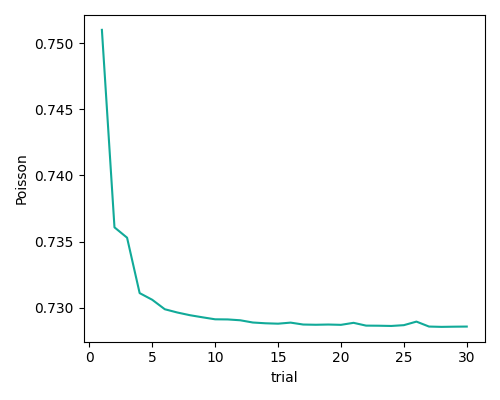
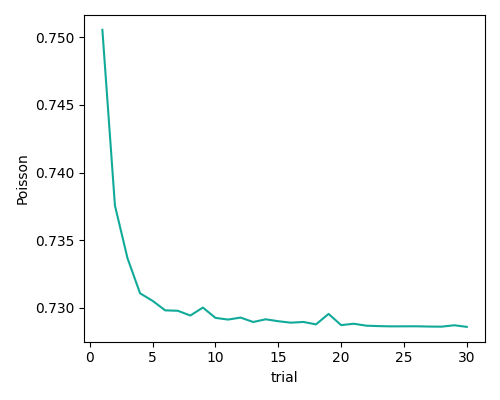
MSEのファイルの書き足した不要部分を消去

diff --git a/detectMSE.py b/detectMSE.py
@@ -8,10 +8,7 @@ from skimage.transform import resize
 import os,time,torch
 from torch import nn
 mse = nn.MSELoss()
-L1 = nn.L1Loss()
-SmoothL1 = nn.SmoothL1Loss()
-# Gaussian = nn.GaussianNLLLoss()
-Poisson = nn.PoissonNLLLoss()
+
 
 
 
@@ -183,28 +180,15 @@ class Dinonet:
             for i_batch,(x,y) in enumerate(dalo_train):
                 z = self.net(x.to(self.dev))
                 lossMSE = mse(z,y.to(self.dev)) # 訓練データの損失
-                lossL1 = L1(z,y.to(self.dev))
-                lossSL1 = SmoothL1(z,y.to(self.dev))
-                # lossGauss = Gaussian(z,y.to(self.dev))
-                lossPoisson = Poisson(z,y.to(self.dev))
                 self.opt.zero_grad()
                 lossMSE.backward()
-                lossL1.backward()
-                lossSL1.backward()
-                lossPoisson.backward()
                 self.opt.step()
 
                 # 検証データにテスト
                 if((i_batch+1)%int(np.ceil(dalo_train.nkai/cnt_multi))==0 or i_batch==dalo_train.nkai-1):
                     self.net.eval()
                     lossMSE = []
-                    lossL1 = []
-                    lossSL1 = []
-                    lossPoisson = []
                     psnrMSE = []
-                    psnrL1 = []
-                    psnrSL1 = []
-                    psnrPoisson = []
                     if(n_kaku):
                         gazou = []
                         n_kaita = 0
@@ -213,13 +197,7 @@ class Dinonet:
                         z = self.net(x.to(self.dev))
                         # 検証データの損失
                         lossMSE.append(mse(z,y.to(self.dev)).item())
-                        lossL1.append(mse(z,y.to(self.dev)).item())
-                        lossSL1.append(mse(z,y.to(self.dev)).item())
-                        lossPoisson.append(mse(z,y.to(self.dev)).item())
                         psnrMSE.append(10*np.log10((1^2)/mse(z,y.to(self.dev)).item()))
-                        psnrL1.append(10*np.log10((1^2)/L1(z,y.to(self.dev)).item()))
-                        psnrSL1.append(10*np.log10((1^2)/SmoothL1(z,y.to(self.dev)).item()))
-                        psnrPoisson.append(10*np.log10((1^2)/Poisson(z,y.to(self.dev)).item()))
                         # 検証データからできた一部の画像を書く
                         # if(n_kaita<n_kaku):
                         #     x = x.numpy().transpose(0,2,3,1) # 入力
@@ -232,25 +210,19 @@ class Dinonet:
                         #         if(n_kaita>=n_kaku):
                         #             break
                     lossMSE = np.mean(lossMSE)
-                    lossL1 = np.mean(lossL1)
-                    lossSL1 = np.mean(lossSL1)
-                    lossPoisson = np.mean(lossPoisson)
                     psnrMSE = np.mean(psnrMSE)
-                    psnrL1 = np.mean(psnrL1)
-                    psnrSL1 = np.mean(psnrSL1)
-                    psnrPoisson = np.mean(psnrPoisson)
                     # if(n_kaku):
                     #     gazou = np.hstack(gazou)
                     #     # imsave(os.path.join(self.save_folder,'kekka%03d.jpg'%(kaime+1)),gazou)
 
                     # 今の状態を出力する
-                    print('%d:%d/%d ~ 損失:%.4e %.2f分過ぎた'%(kaime+1,i_batch+1,dalo_train.nkai,loss,(time.time()-t0)/60))
-                    print('PSNR = {}'.format(psnr))
+                    print('%d:%d/%d ~ 損失:%.4e %.2f分過ぎた'%(kaime+1,i_batch+1,dalo_train.nkai,lossMSE,(time.time()-t0)/60))
+                    print('PSNR = {}'.format(psnrMSE))
                     self.net.train()
 
             # ミニバッチ一回終了
-            self.loss.append(loss)
-            self.psnr.append(psnr)
+            self.loss.append(lossMSE)
+            self.psnr.append(psnrMSE)
             # パラメータや状態を保存する
             # sd = dict(w=self.net.state_dict(),o=self.opt.state_dict(),n=kaime+1,l=self.loss)
             # torch.save(sd,os.path.join(self.save_folder,'netparam.pkl'))
